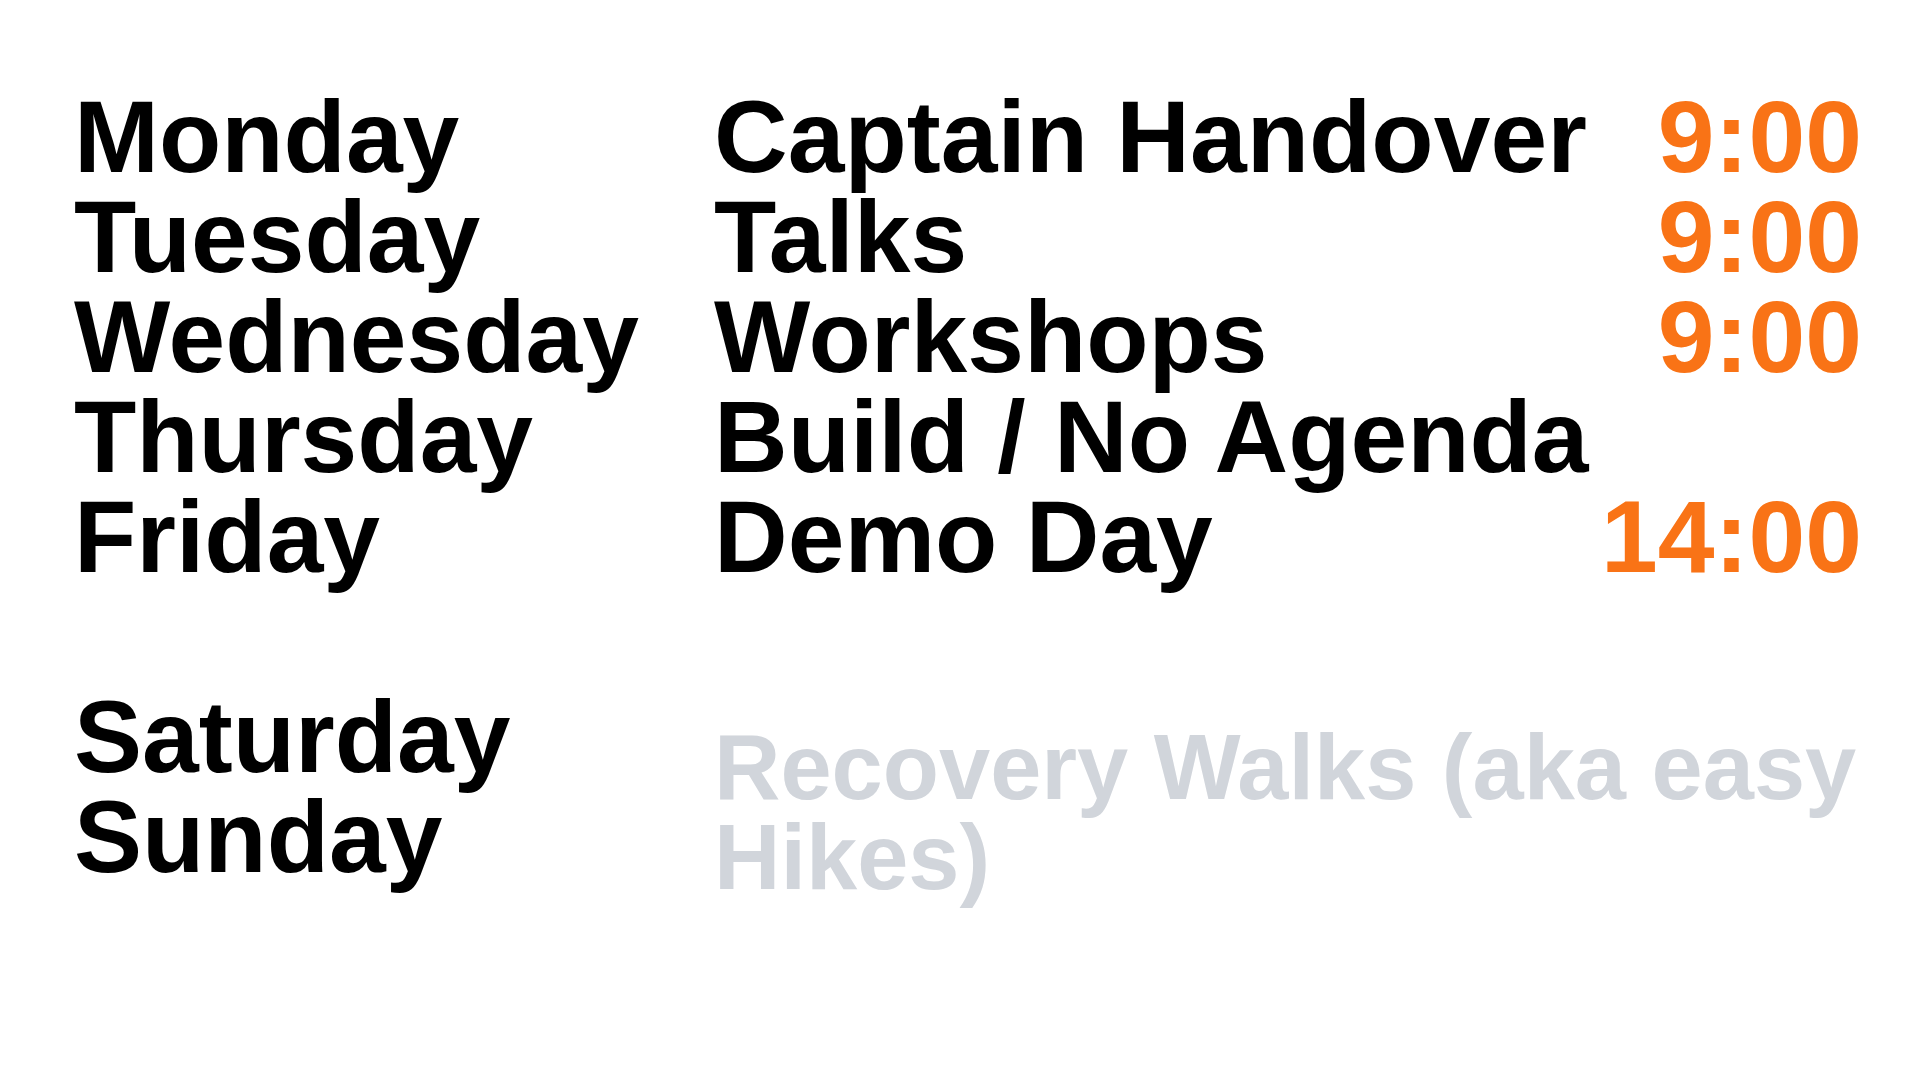
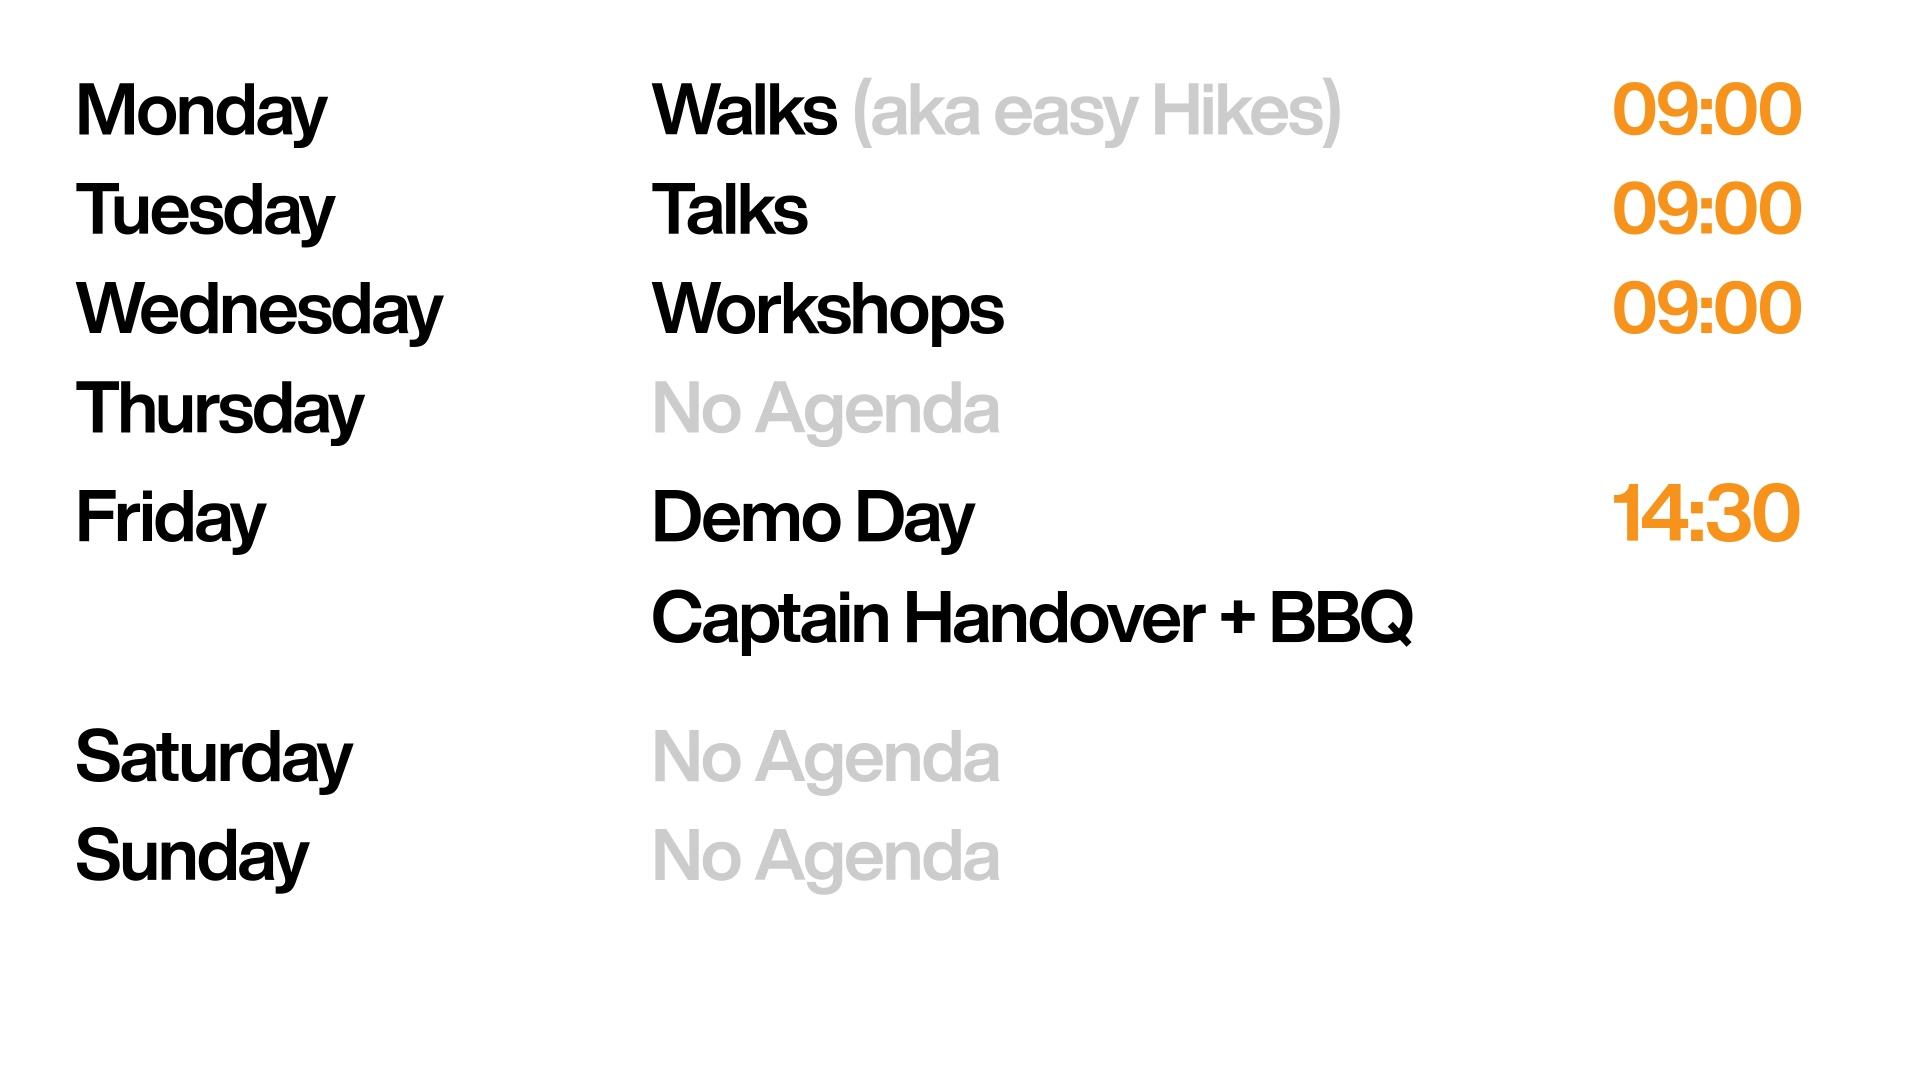
problem: program pages have stale schedules and repeated quotes

Changed region(s): [[0.0312, 0.0611, 0.9688, 0.6111], [0.3438, 0.6722, 0.9688, 0.8556], [0.0312, 0.6417, 0.2812, 0.825]]

diff --git a/scripts/generate-restored.js b/scripts/generate-restored.js
@@ -10,15 +10,15 @@ export function generateRestored({write,layout}) {
   const quotes=json('philosophy-quotes');const rhythm=json('weekly-rhythm');
   for(const name of ['concept','philosophy','loop']) {
     const data=frontmatter(name);
-    const lead=quotes.find(q=>name==='concept'?q.id==='berdyaev-beginning-end':name==='loop'?q.id==='will-durant-excellence':q.section===data.intro.quote_section);
+    const lead=quotes.find(q=>name==='concept'?q.id==='berdyaev-beginning-end':name==='loop'?q.id==='will-durant-excellence':data.intro.quote_section&&q.section===data.intro.quote_section);
     const sections=name==='loop'?rhythm.schedule.map(day=>({id:slug(day.day),title:day.day,content:day.description,image:day.image,pullquote:{quote:day.tagline,author:day.goal}})):data.sections;
     const heroImage=name==='loop'?'show-talk-build-loop.jpeg':data.intro.image;
     write(`${name}/index.html`,layout(data.title,data.description,`/${name}/`,`<header class="reading-hero"><h1>${e(data.title)}</h1><div class="prose content-lead">${md(data.intro.content)}</div>${image(`/assets/images/${heroImage}`,data.title,'reading-cover')}</header>${quote(lead)}
       <div class="reading-layout"><nav class="reading-menu" aria-label="On this page"><span class="reading-menu-label" aria-hidden="true">On this page</span>${sections.map(s=>link('#'+s.id,s.title,'')).join('')}</nav><div>
       ${name==='loop'?quote(quotes.find(q=>q.id==='epictetus-habits')):''}
-      ${sections.map(s=>`<section class="reading-section" id="${e(s.id)}"><h2>${e(s.title)}</h2><div class="prose">${md(s.content)}${name==='concept'&&s.id==='weekly-loop'?`<ul>${rhythm.schedule.map(day=>`<li>${link('/loop/#'+slug(day.day),day.day,'')}: ${e(day.short_description)}</li>`).join('')}</ul>`:''}${(s.bulletpoints||[]).length?`<ul>${s.bulletpoints.map(point=>`<li>${md(point)}</li>`).join('')}</ul>`:''}</div>
+      ${sections.map(s=>`<section class="reading-section" id="${e(s.id)}">${name==='loop'&&s.id==='the-weekend'?'<span class="legacy-anchor" id="weekend-walks"></span>':''}<h2>${e(s.title)}</h2><div class="prose">${md(s.content)}${name==='concept'&&s.id==='weekly-loop'?`<ul>${rhythm.schedule.map(day=>`<li>${link('/loop/#'+slug(day.day),day.day,'')}: ${e(day.short_description)}</li>`).join('')}</ul>`:''}${(s.bulletpoints||[]).length?`<ul>${s.bulletpoints.map(point=>`<li>${md(point)}</li>`).join('')}</ul>`:''}</div>
       ${s.image?(s.id==='weekly-loop'?`<a href="/loop/">${image('/assets/images/'+s.image,s.title)}</a>`:image('/assets/images/'+s.image,s.title)):''}
-      ${quote(s.pullquote||quotes.find(q=>q.section===s.quote_section))}<div class="prose">${md(s.afterContent||'')}</div>${s.link?link(s.link,'Explore more →'):''}</section>`).join('')}
+      ${quote(s.pullquote||(s.quote_section?quotes.find(q=>q.section===s.quote_section):null))}<div class="prose">${md(s.afterContent||'')}</div>${s.link?link(s.link,'Explore more →'):''}</section>`).join('')}
       ${name==='loop'?link('/podcast/','Next: Listen to some of our conversations →'):''}</div></div>`));
   }
 

diff --git a/content/concept.md b/content/concept.md
@@ -9,7 +9,7 @@ intro:
   content: |
     Sovereign Engineering is a six-week program in Madeira for people who want to build freedom tech with other serious builders.
 
-    The structure is simple. Twenty-one people come together for six weeks, with a break in Week 04. During the program weeks, Monday sets the week. Tuesday is for talks. Wednesday is for workshops. Thursday is open build time. Friday is Demo Day. The weekend is for walks, recovery, and long conversations.
+    The structure is simple. Twenty-one people come together for six weeks, with a break in Week 04. During the program weeks, Monday starts with the captain’s talk and a walk. Tuesday is for talks. Wednesday is for workshops. Thursday is open build time. Friday is Demo Day. The weekend has no formal agenda: time for recovery and long conversations.
 
     The program is private and in person. People can speak freely, test rough ideas, and ship without performing for the whole internet.
   image: 'www-life-path.png'
@@ -35,7 +35,7 @@ sections:
   - id: 'weekly-loop'
     title: 'The Weekly Loop'
     content: |
-      The loop is simple. Friday forces the work into the open. Everyone demos. The weekend walks and Monday reset give the cohort time to argue, rethink, and pick a direction. Tuesday through Thursday are for building the next thing.
+      The loop is simple. Friday forces the work into the open. Everyone demos. The Monday walks give the cohort time to argue, rethink, and pick a direction. Tuesday through Thursday are for building the next thing.
     image: 'show-talk-build-loop.jpeg'
 
   - id: 'walks'

diff --git a/content/loop.md b/content/loop.md
@@ -7,7 +7,7 @@ description: 'The six-week rhythm of talks, workshops, build time, walks, and Fr
 # Main introduction section
 intro:
   content: |
-    The loop is simple. Friday forces the work into the open. Everyone demos. The weekend walks and Monday reset give the cohort time to argue, rethink, and pick a direction. Tuesday through Thursday are for building the next thing.
+    The loop is simple. Friday forces the work into the open. Everyone demos. The Monday walks give the cohort time to argue, rethink, and pick a direction. Tuesday through Thursday are for building the next thing.
 
     The loop runs in Weeks 01–03 and 05–06. Week 04 is a break week: time to breathe before coming back to build and ship.
 ---
